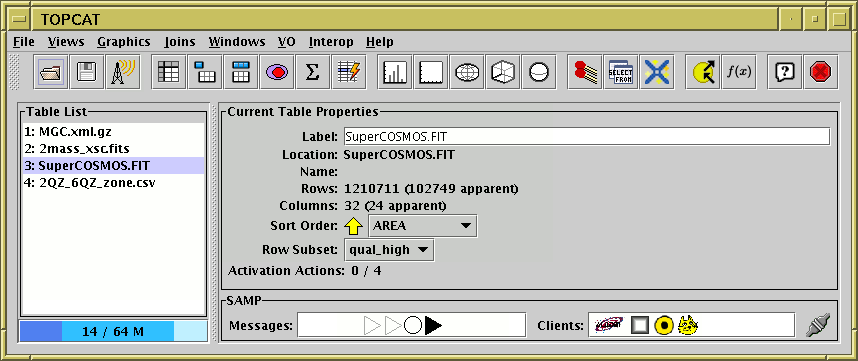
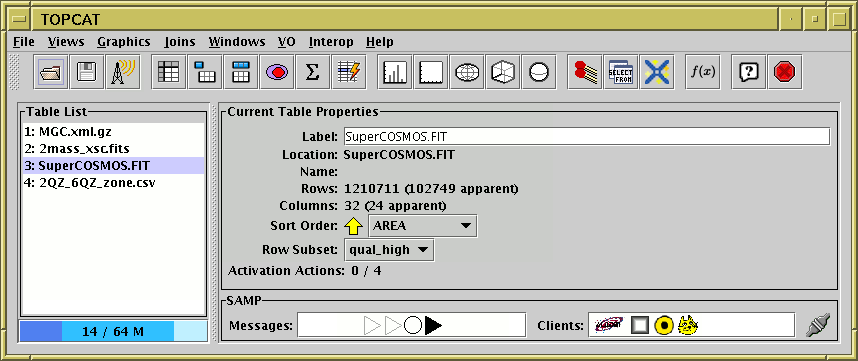
topcat: remove SAMP Window button from main toolbar
The SAMP button, probably not much used, is bumped off the main
Control Window toolbar for reasons of space (to make way for the
Time Plot).  It's still available from the Interop menu.

Changed region(s): [[0.7879, 0.1524, 0.9697, 0.2742]]

diff --git a/topcat/src/main/uk/ac/starlink/topcat/ControlWindow.java b/topcat/src/main/uk/ac/starlink/topcat/ControlWindow.java
@@ -579,9 +579,6 @@ public class ControlWindow extends AuxWindow
         toolBar.addSeparator();
 
         /* Add miscellaneous actions to the toolbar. */
-        if ( interopAct != null ) {
-            toolBar.add( interopAct );
-        }
         toolBar.add( MethodWindow.getWindowAction( this, false ) );
         for ( TopcatToolAction tact :
               Loader.getClassInstances( TOPCAT_TOOLS_PROP,
